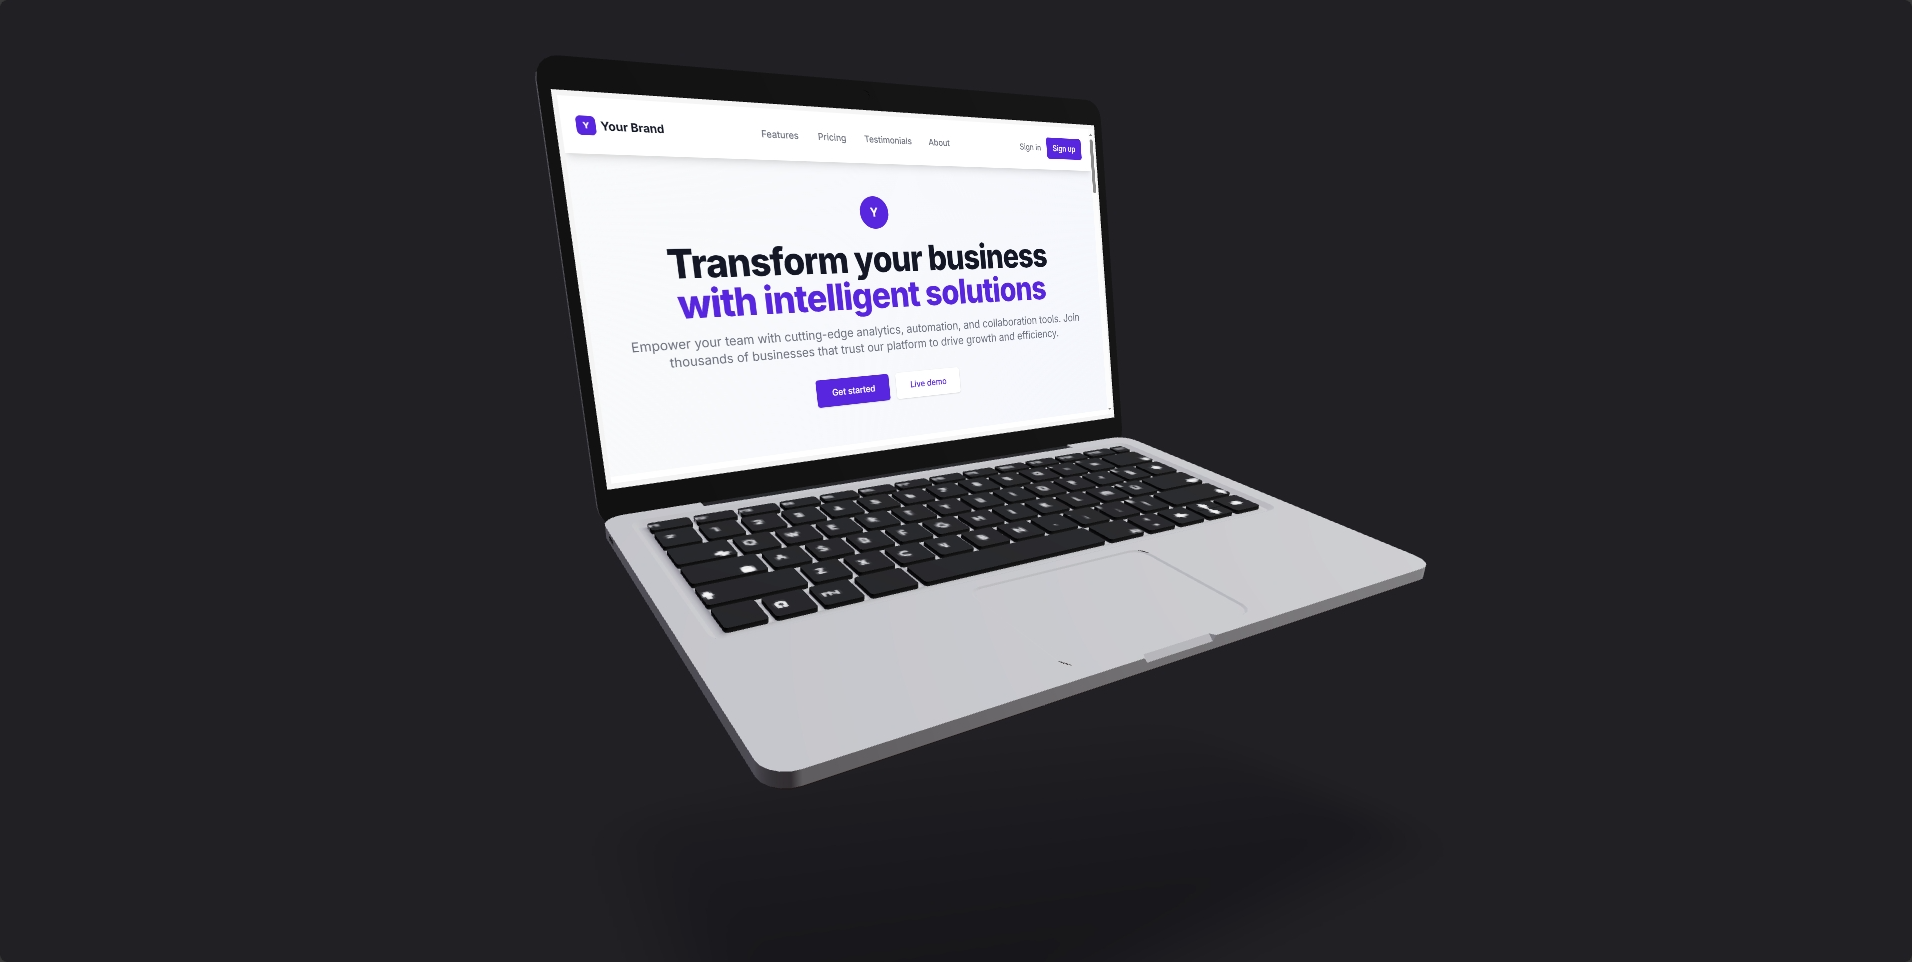
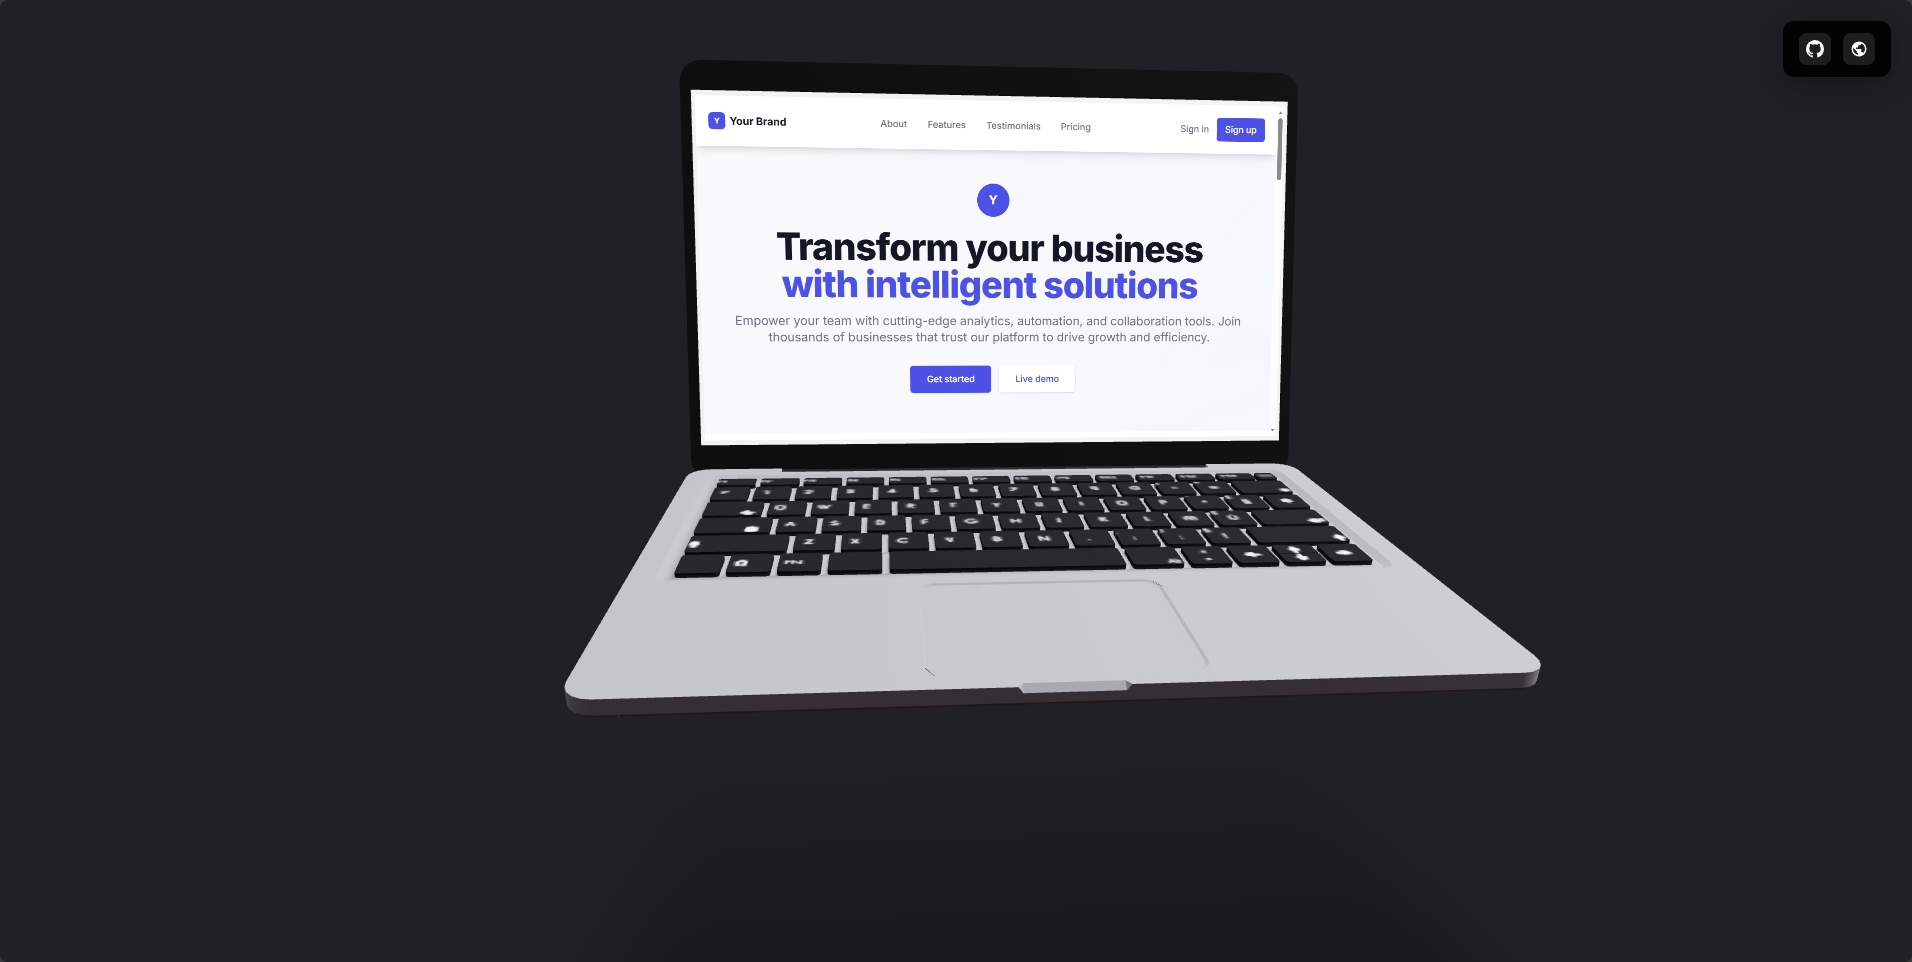
Adjust laptop sway animation to balanced movement - not too subtle, not too extreme

Changed region(s): [[0.2777, 0.0936, 0.8023, 0.8108], [0.9257, 0.0, 1.0, 0.0936]]

diff --git a/src/App.jsx b/src/App.jsx
@@ -12,13 +12,13 @@ function Model(props) {
   // Load model
   const { scene } = useGLTF('/laptop.glb')
   
-  // Make it float - matching original example but with bigger rotation
+  // Make it float - balanced sway
   useFrame((state) => {
     const t = state.clock.getElapsedTime()
-    group.current.rotation.x = THREE.MathUtils.lerp(group.current.rotation.x, Math.cos(t / 2) / 20 + 0.25, 0.1)
-    group.current.rotation.y = THREE.MathUtils.lerp(group.current.rotation.y, Math.sin(t / 4) / 5, 0.1)
-    group.current.rotation.z = THREE.MathUtils.lerp(group.current.rotation.z, Math.sin(t / 8) / 20, 0.1)
-    group.current.position.y = THREE.MathUtils.lerp(group.current.position.y, (-2 + Math.sin(t / 2)) / 2, 0.1)
+    group.current.rotation.x = THREE.MathUtils.lerp(group.current.rotation.x, Math.cos(t / 3) / 25 + 0.25, 0.08)
+    group.current.rotation.y = THREE.MathUtils.lerp(group.current.rotation.y, Math.sin(t / 6) / 8, 0.08)
+    group.current.rotation.z = THREE.MathUtils.lerp(group.current.rotation.z, Math.sin(t / 12) / 25, 0.08)
+    group.current.position.y = THREE.MathUtils.lerp(group.current.position.y, (-2 + Math.sin(t / 3)) / 3, 0.08)
   })
 
   // Calculate model bounds and adjust scale/position

diff --git a/README.md b/README.md
@@ -17,7 +17,6 @@ An interactive 3D floating laptop model with a usable website interface and shad
 - **Frontend**: React 18, Vite
 - **3D Graphics**: Three.js, @react-three/fiber, @react-three/drei
 - **Styling**: Tailwind CSS
-- **UI Components**: Heroicons
 
 ## Setup
 
